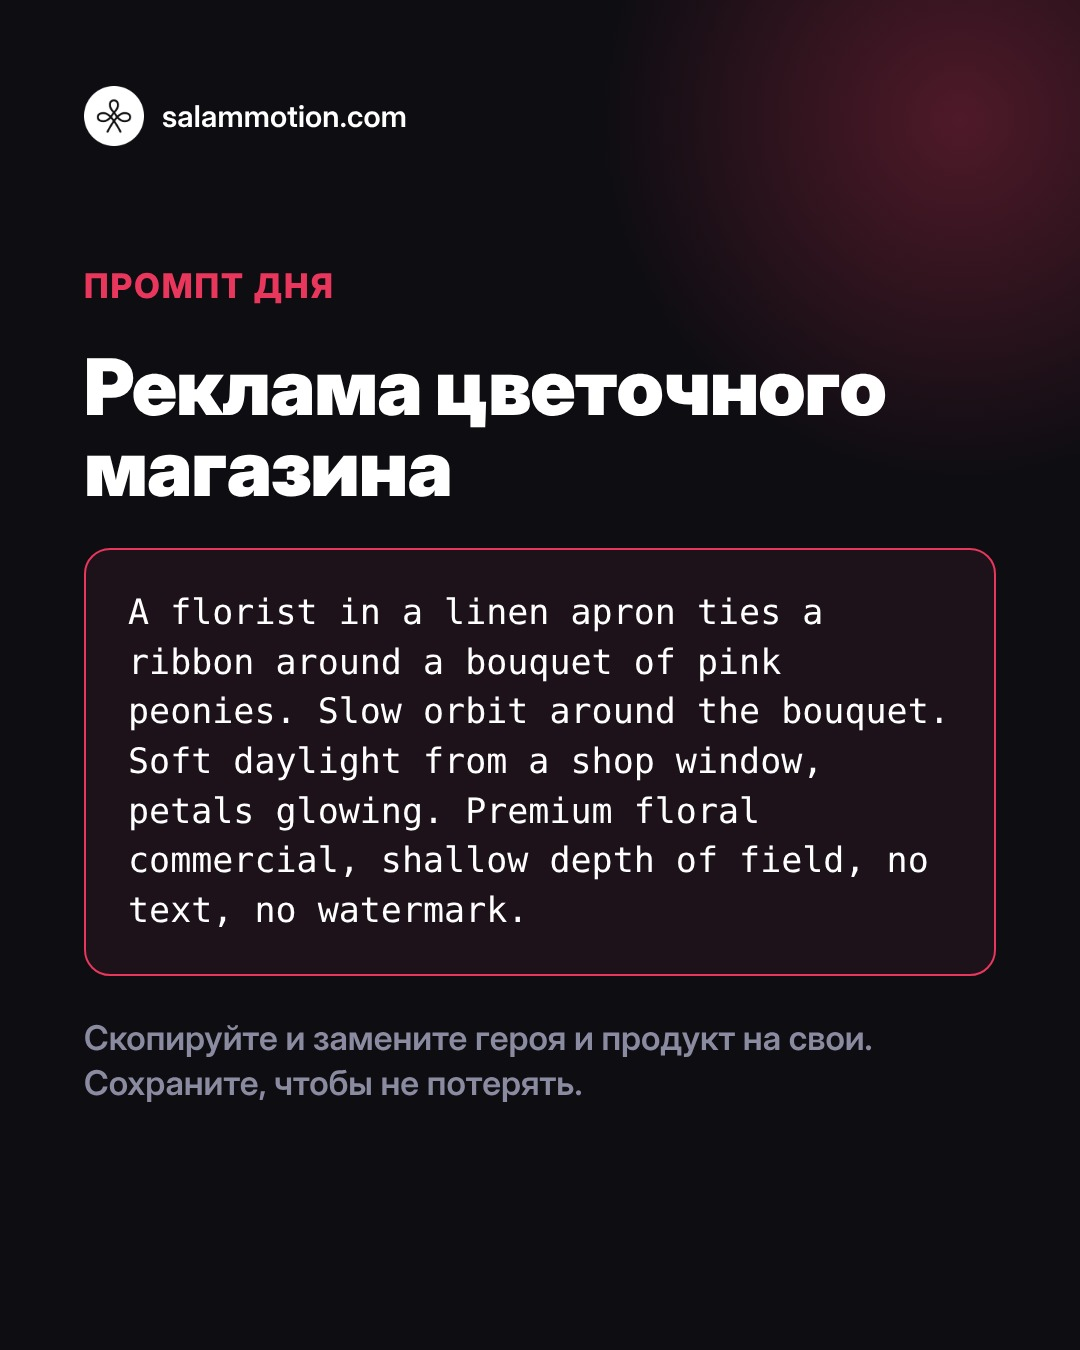
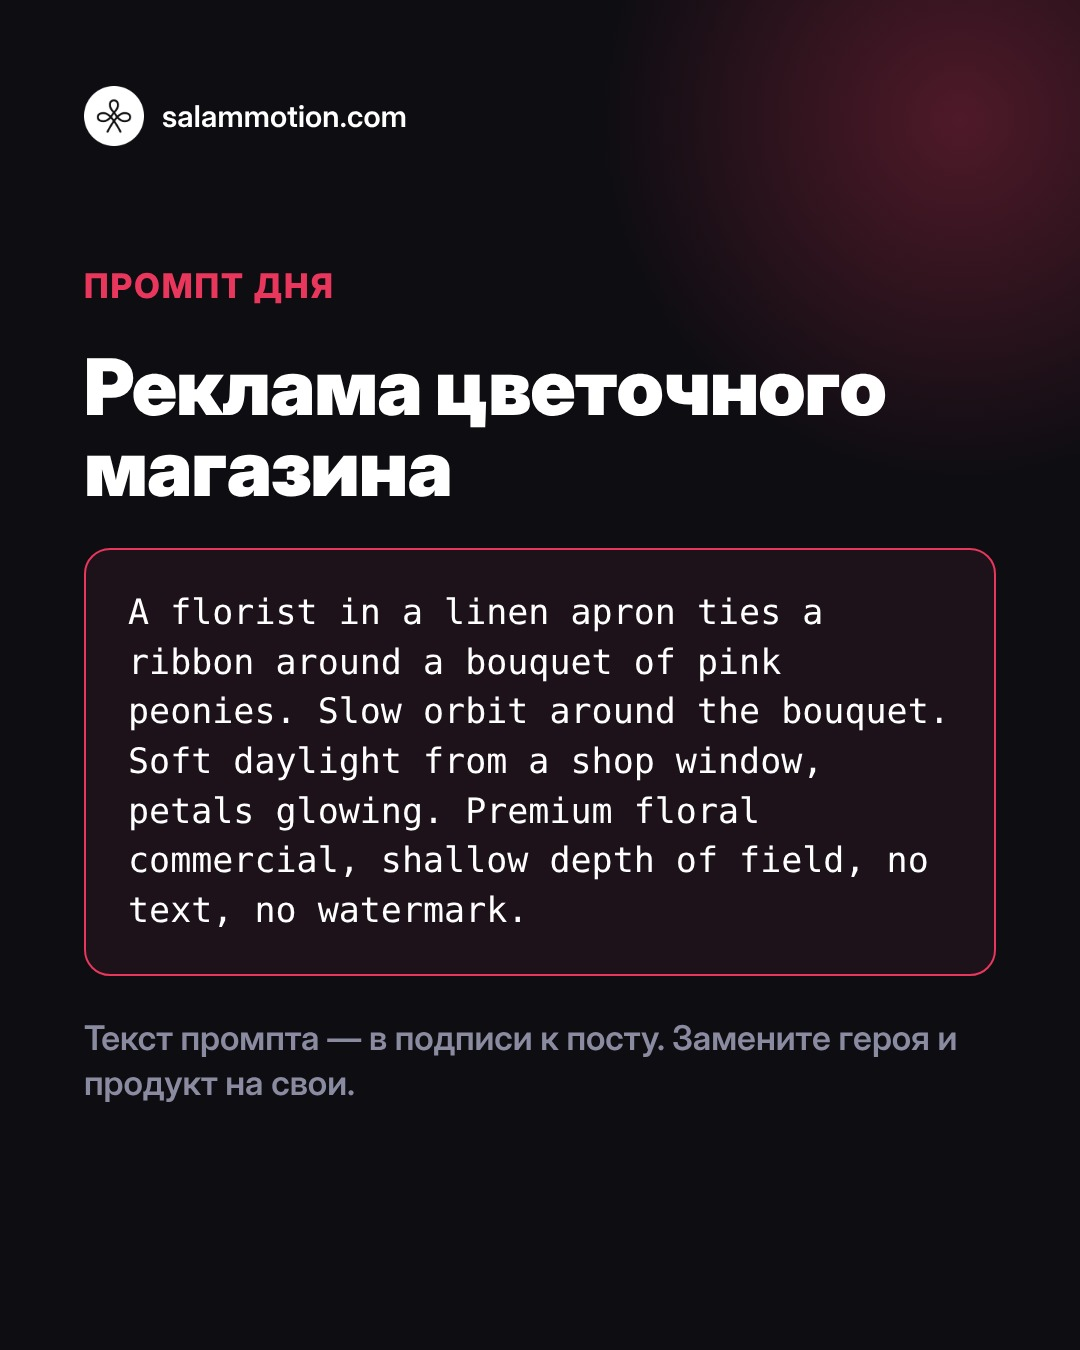
Проверка текстов: исправления в запланированных постах
- промпты продублированы в подписях (с картинки текст не скопировать)
- убраны преувеличения и неподтверждённые обещания (длина ролика, «как кино», «на первой секунде»)
- обращение везде на «вы», мелкая стилистика
- исправленная картинка для поста о Startup World Cup (заголовок «победитель регионального этапа»), в очередь не ставится
- шаблоны ответов на слово «ПРОМПТ» в контент-плане

Claude-Session: https://claude.ai/code/session_012zJZ4GU9qyGbYhSZvXLh6V

Changed region(s): [[0.0611, 0.7467, 0.8861, 0.84]]

diff --git a/social-bot/content-plan.md b/social-bot/content-plan.md
@@ -37,6 +37,14 @@
 > Спасибо за интерес! Вот фраза, с которой сделан ролик: «…» (фраза из сценария ниже).
 > Вставьте её на salammotion.com, нажмите кнопку улучшения промпта и Generate. Что получится — присылайте, посмотрю.
 
+### Что отправлять по каждому посту, где обещан промпт
+- **«5 ошибок в промпте» (вышла 14.11), «Формула промпта» (15.11)** — шаблон:
+  `[кто в кадре] [одно действие]. [движение камеры]. [свет]. [стиль], shallow depth of field, no text, no watermark.`
+  Пример: `A young barista in a beige apron pours steamed milk into a cup, latte art forms. Slow dolly-in, gentle arc around the cup. Warm morning light from the window, soft rim light. Premium coffee commercial, shallow depth of field, no text, no watermark.`
+- **«6 движений камеры» (20.11)** — пример с движениями:
+  `Macro shot of a perfume bottle on a marble table. Slow dolly-in, then the camera orbits around the bottle. Soft daylight from a window, soft rim light on the glass. Premium product commercial, no text, no watermark.`
+- **Reels про шоколад (13.11)** — фраза: `I need a product video of chocolate. Character is a little girl.`
+
 ### Шапка профиля (вносится вручную в Instagram)
 > Salam Motion · видео из одной фразы
 > 🏆 Победитель Startup World Cup Ashgabat 2026, финал в Сан-Франциско
